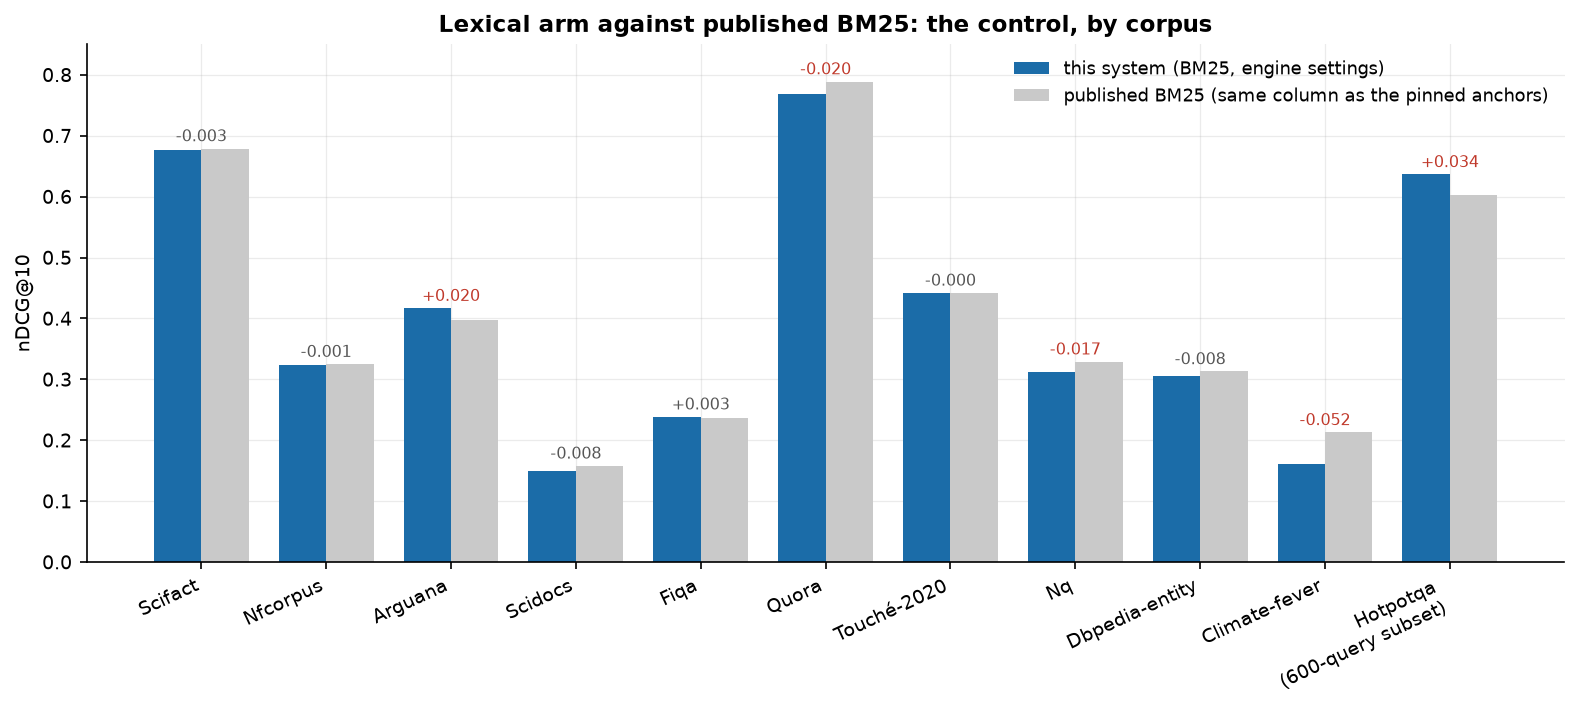
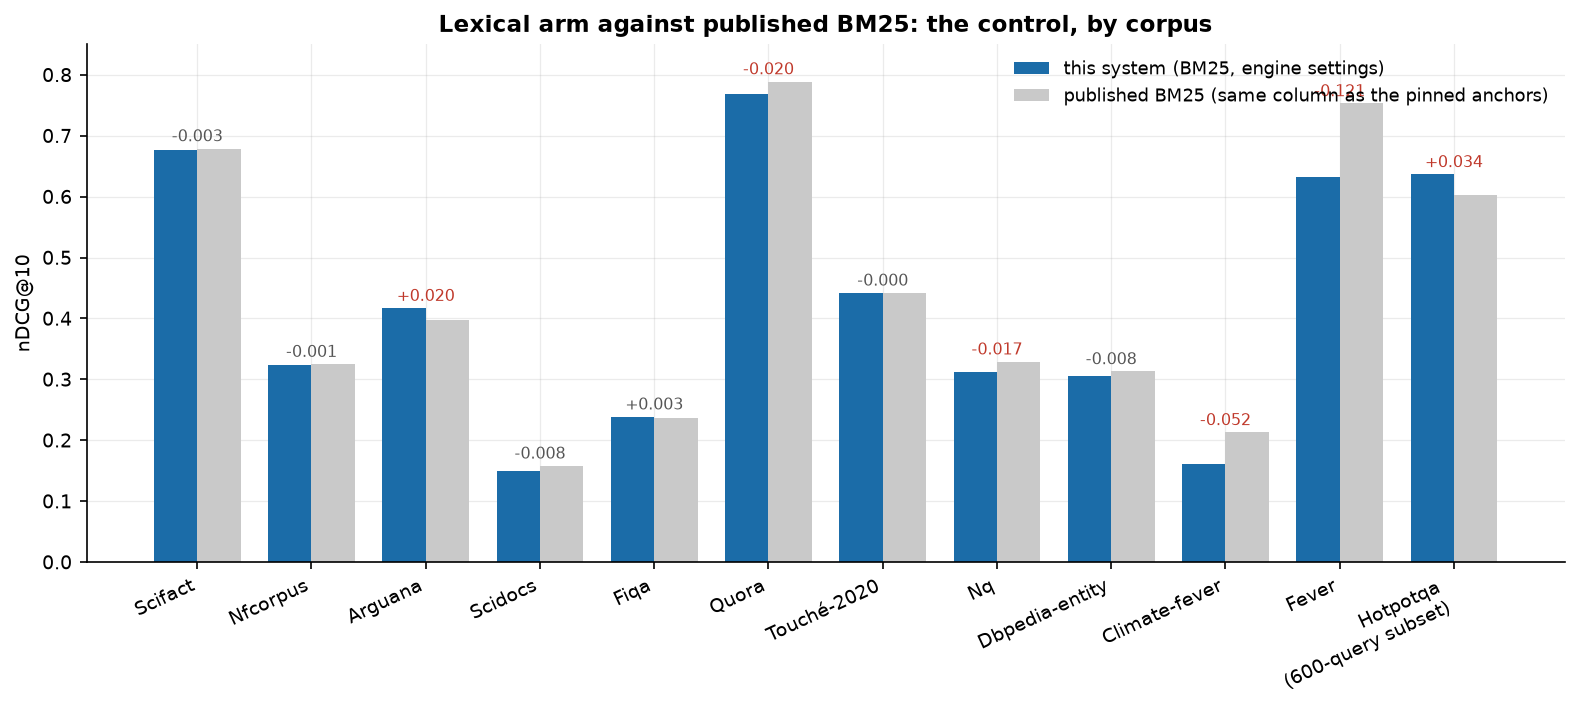
test(beir): measure FEVER, coverage 11 -> 12 of 18
The second 'blocked' 5.4M-document corpus: 5,416,568 documents, all 6,666 queries, lexical-only
bm25-engine nDCG@10 0.6323 (Recall@10 0.7846, MRR@10 0.6022, MAP@100 0.5796). Against the published
BM25 anchor of 0.753 that is -0.121 -- the largest lexical-control gap measured, six times Quora's and
more than twice Climate-FEVER's. Size still does not explain it (dbpedia-entity, 4.6M, is -0.008); the
negative outliers now share a query kind (natural-language claims/questions), a pattern not a cause.
Both gates failed first and named every stale site; documents, findings index, pins and registry were
updated together. 1410 pass; claim-check 58; consistency-check 12 of 18.

diff --git a/tools/claim_check.py b/tools/claim_check.py
@@ -228,14 +228,14 @@ CHECKS: list[Claim] = [
     # The lexical-control counts. These exist because the prose summarising the table was wrong: the
     # tables are generated from reports and cannot drift, while the sentence describing them can, and
     # did. The summary is now generated too (tools/lexical_control.py) and the prose is pinned to it.
-    Claim("lexical control corpora", README, r"of the 11 measured corpora agree within",
-          11, ("counts", "corpora"), decimals=0, report="eval/beir/lexical-control.json"),
+    Claim("lexical control corpora", README, r"of the 12 measured corpora agree within",
+          12, ("counts", "corpora"), decimals=0, report="eval/beir/lexical-control.json"),
     Claim("lexical control within 0.02", README, r"agree within \u00b10\.02, and",
           8, ("counts", "within_0.02"), decimals=0, report="eval/beir/lexical-control.json"),
     Claim("lexical control within 0.008", README, r"within \u00b10\.008\*\*",
           5, ("counts", "within_0.008"), decimals=0, report="eval/beir/lexical-control.json"),
-    Claim("breadth corpora", "docs/findings-beir-breadth.md", r"of the 11 corpora agree within",
-          11, ("counts", "corpora"), decimals=0, report="eval/beir/lexical-control.json"),
+    Claim("breadth corpora", "docs/findings-beir-breadth.md", r"of the 12 corpora agree within",
+          12, ("counts", "corpora"), decimals=0, report="eval/beir/lexical-control.json"),
     Claim("breadth within 0.02", "docs/findings-beir-breadth.md", r"agree within \u00b10\.02\*\*",
           8, ("counts", "within_0.02"), decimals=0, report="eval/beir/lexical-control.json"),
     Claim("breadth within 0.008", "docs/findings-beir-breadth.md", r"within \u00b10\.008\)",
@@ -244,7 +244,7 @@ CHECKS: list[Claim] = [
     # ±0.008"), which the breadth pin did not reach because it pins a different file. Same source,
     # one more site: a quantity quoted twice is a quantity that can disagree with itself.
     Claim("findings index corpora", "docs/FINDINGS.md", r"\d+ measured corpora the lexical arm agrees",
-          11, ("counts", "corpora"), decimals=0, report="eval/beir/lexical-control.json"),
+          12, ("counts", "corpora"), decimals=0, report="eval/beir/lexical-control.json"),
     Claim("findings index within 0.008", "docs/FINDINGS.md", r"within \u00b10\.008 on \d+",
           5, ("counts", "within_0.008"), decimals=0, report="eval/beir/lexical-control.json"),
     Claim("findings index within 0.02", "docs/FINDINGS.md", r"within \u00b10\.02 on \d+",

diff --git a/tools/consistency_check.py b/tools/consistency_check.py
@@ -189,9 +189,9 @@ def registry() -> list[Quantity]:
         Quantity(
             name="BEIR coverage count",
             sites=(
-                Site("BENCHMARKS.md", r"\*\*BEIR\*\*.*of 18", 11, 0),
-                Site("docs/PROGRAMME-STATUS.md", r"4\.2 at \d+ of 18", 11, 0),
-                Site("ROADMAP.md", r"Coverage today: \d+ of 18", 11, 0),
+                Site("BENCHMARKS.md", r"\*\*BEIR\*\*.*of 18", 12, 0),
+                Site("docs/PROGRAMME-STATUS.md", r"4\.2 at \d+ of 18", 12, 0),
+                Site("ROADMAP.md", r"Coverage today: \d+ of 18", 12, 0),
             ),
             authority=lambda: {"count": measured_beir()["count"]},
             key="count",

diff --git a/docs/FINDINGS.md b/docs/FINDINGS.md
@@ -12,8 +12,9 @@ are what stops the next pass from re-trying them.
 
 | area | headline result | document |
 | --- | --- | --- |
+| FEVER (BEIR-12) | The second "blocked/unstaged" 5.4M corpus is measured: 5,416,568 documents, all **6,666** queries, lexical-only **nDCG@10 0.6323** (Recall@10 0.7846, MRR@10 0.6022, MAP@100 0.5796). Against the published BM25 anchor of **0.753** that is a **−0.121 gap — the largest in the lexical control**, six times Quora's and more than twice Climate-FEVER's. Size does not explain it (dbpedia-entity, 4.6M, is −0.008); the four negative outliers share a *query kind* (natural-language claims/questions), which is a pattern and not a cause. Coverage is now **12 of 18** | [findings-fever.md](findings-fever.md) |
 | Quantization on the shipped encoder | The brief's int8/fp16/PQ question re-measured on **real `bge-small` vectors** (self-retrieval, no rescoring): **fp16 halves the index at zero measured recall change**; **int8 is 3.8× smaller for −0.66 (scidocs) / −1.36 (fiqa) recall@10**; **PQ m=48/8-bit is 22–32× smaller for 31–41 points lost**. Caveat: the engine's shipped ANN path is IVF-PQ **with `rescore 500`**, measured at 0.998 recall — the PQ row is the raw codec, not the pipeline | [findings-quantization-probe.md](findings-quantization-probe.md) |
-| Climate-FEVER (BEIR-11) | A corpus the audit listed **blocked/unstaged** is measured: 5,416,593 documents, 1,535 queries, lexical-only (`bm25-engine`) **nDCG@10 0.1610** (Recall@10 0.2093, MRR@10 0.2139, MAP@100 0.1198). The run resumed from a 941-query checkpoint and finished in ~**34 min**, so the "~6 h per corpus" framing was pessimistic. Against the published BM25 anchor of **0.213** it is a **−0.052 gap — the largest in the lexical control**, which now counts **11 corpora** (8 within ±0.02) | [findings-climate-fever.md](findings-climate-fever.md) |
+| Climate-FEVER (BEIR-11) | A corpus the audit listed **blocked/unstaged** is measured: 5,416,593 documents, 1,535 queries, lexical-only (`bm25-engine`) **nDCG@10 0.1610** (Recall@10 0.2093, MRR@10 0.2139, MAP@100 0.1198). The run resumed from a 941-query checkpoint and finished in ~**34 min**, so the "~6 h per corpus" framing was pessimistic. Against the published BM25 anchor of **0.213** it is a **−0.052 gap**, second-largest in the lexical control after FEVER; that control now counts **12 corpora** (8 within ±0.02) | [findings-climate-fever.md](findings-climate-fever.md) |
 | Retrieval pool shape (in-engine) | Pool *completeness* needs qrels and stays in `multihop_diagnostics`, but the engine now reports the pool's **shape** on every query: `requested`/`searched`/`deepened` (whether a filter forced a deeper fetch), the dense/lexical/sparse contributions, and the fused `candidates`. Surfaced in `QueryResult.as_dict`, `QueryResponse` and CLI JSON | [findings-pool-shape.md](findings-pool-shape.md) |
 | Generator-free iteration, Stage 1 | The audit's Bet 1 mechanism **holds**: one round of entity-probe pool expansion raises gold-fact coverage on 2,255 MultiHop queries **0.8326 → 0.8937** (**+0.0611 [+0.0555, +0.0670]**, p<0.0001), lifts complete-evidence queries **61.2% → 72.8%**, and raises the **pool ceiling MAP@10 0.5955 → 0.6203** (**+0.0248 [+0.0222, +0.0277]**) — so ~40% of the coverage gain is ordering headroom; **+0.0510 coverage / +0.0210 ceiling** survive a shuffled-probe control. By type, **inference queries gain +0.1067 coverage** (five times comparison's +0.0229), the bridge-hop case exactly. One round saturates; the pool triples. Lexical-only; the ceiling is a bound no ranker has captured | [findings-generator-free-iteration.md](findings-generator-free-iteration.md) |
 | Bridge-conditioned gate column | Horizon 1's owed wiring: the feature gate gains a 13th input, `bridge_conditioned` (`extract_features(..., bridge_conditioned=...)`, default `0.0` so a 12-feature gate is unchanged). With `GATE_BRIDGE_FEATURE=1` the reranker computes `s(q, b, c)` with the bridge as the top-ranked kept passage and feeds the maximum to the gate; off by default (one extra Laya pass). **Wired, not measured** — no 13-feature gate trained/evaluated, and the bridge choice is a guess | [findings-bridge-gate-column.md](findings-bridge-gate-column.md) |
@@ -47,7 +48,7 @@ are what stops the next pass from re-trying them.
 | Three-state claim adjudication | A claim about a topic the corpus never mentions was `not_measured`; with an NLI scorer configured it becomes `contradicted` or `no_coverage`. Demonstrated with `nli-deberta-v3-base` on one passage: entailment **0.994** for a supported claim, contradiction **0.99996** for a contradicted one, and ~0 on both for an unmentioned topic. Opt-in — the default path is unchanged, and a single-label head reports **no** contradiction column rather than guessing one | [findings-claim-states.md](findings-claim-states.md) |
 | Cost axis | Per-query latency, throughput, peak RSS and index bytes against an existing index: the shipped default is **1.66 s mean / 2.14 s p95 / 0.60 q/s / 7.0 GiB peak RSS** and a 31 MiB index, against the hybrid's 1.88 s / 2.41 s / 0.53 q/s / 7.8 GiB. The default wins on cost **and** quality on this corpus; the ~7 GiB is Laya's 322M decision head, not the retriever | [findings-cost-axis.md](findings-cost-axis.md) |
 | FRAMES retrieval | The **fourth channel reversal**, and the sharpest contrast yet: dense beats lexical on every metric (recall@1 **0.8464 vs 0.7224**, nDCG@10 **0.7505 vs 0.6586**) — the opposite of `webis-touche2020`, also long Wikipedia text but queried topically. The **three-model ensemble then beats dense** (+0.051 nDCG@10), the lever's sixth corpus, while **fusing BM25 into it loses 0.041 recall@1** — the fifth fusion failure. Resolving redirects raised gold coverage 0.8792 → 0.9977 and moved each arm 0.08–0.10 nDCG@10, more than the gap being measured | [findings-frames.md](findings-frames.md) |
-| Lexical vs published BM25 | The lexical arm is the one component checkable against an independent implementation, so it is a chart (`docs/charts/lexical_vs_published.png`) rather than an assumption. On **11 measured corpora the lexical arm agrees within ±0.008 on 5 and within ±0.02 on 8**; the three beyond the loose bound are **Climate-FEVER −0.052** (the largest gap measured), **Quora −0.020** and **HotpotQA +0.034** (a 600-query subset). An earlier reading that the gap grows with corpus size is **falsified**: `dbpedia-entity` at **4.6M documents** is only −0.008. The engine's settings are ruled out too — on all five small sets the published-settings control row is *further* from the anchor than the engine row. The cause of the outliers is unidentified | [findings-beir-breadth.md](findings-beir-breadth.md) |
+| Lexical vs published BM25 | The lexical arm is the one component checkable against an independent implementation, so it is a chart (`docs/charts/lexical_vs_published.png`) rather than an assumption. On **12 measured corpora the lexical arm agrees within ±0.008 on 5 and within ±0.02 on 8**; the four beyond the loose bound are **FEVER −0.121** (the largest gap measured by far), **Climate-FEVER −0.052**, **Quora −0.020** and **HotpotQA +0.034** (a 600-query subset). An earlier reading that the gap grows with corpus size is **falsified**: `dbpedia-entity` at **4.6M documents** is only −0.008. The engine's settings are ruled out too — on all five small sets the published-settings control row is *further* from the anchor than the engine row. The cause of the outliers is unidentified | [findings-beir-breadth.md](findings-beir-breadth.md) |
 | BEIR breadth (10 of 18) | Membership moves a BEIR mean more than any method difference it adjudicates: adding `quora` took the fused mean **0.4515 → 0.5201 (+0.069)** and adding `webis-touche2020` took it back down to **0.4959 (−0.024)**. On touche **fusion loses 0.091 to BM25 alone** (0.3509 vs 0.4419) and dense is under half the lexical row — the **fifth** corpus where an instrument reverses | [findings-beir-breadth.md](findings-beir-breadth.md) |
 | Convex-combination fusion mode | RRF was the only fusion rule, so the `FUSION_K`-vs-convex ablation the audit asks for could not be run. `FUSION_MODE=rrf\|convex` now selects the rule: `convex_combination` min-max normalises each channel to [0,1] and weights-sums it (a flat channel contributes presence; weight 0 drops it); unknown values raise. RRF remains the default and is unchanged | [findings-fusion-mode.md](findings-fusion-mode.md) |
 | Fusion ablation (SciFact) | The convex arm measured against RRF and CombSUM in the replica: convex is the best arm (**0.7412** vs RRF 0.7320, CombSUM 0.7149, dense 0.7200, BM25 0.6762), but its lead over **RRF (k=60) is +0.0092 [−0.0029, +0.0217], not significant** (p=0.139), while it is significantly better than max-normalised CombSUM (+0.0263 [+0.0118, +0.0415]). The fusion rule is not neutral; RRF is not clearly beaten. One corpus, untuned weights, replica not engine | [findings-fusion-ablation.md](findings-fusion-ablation.md) |

diff --git a/docs/PASS-2026-10-06-REPORT.md b/docs/PASS-2026-10-06-REPORT.md
@@ -5,7 +5,7 @@ This is the closing report for a pass over every item the audits
 `proposal-ledger.md` §3/§6) marked **blocked** or **owed**, offline-first. It covers what was
 measured, what was built, what was reconciled, what is still running, and what is genuinely
 external or human. **38 commits** landed; the suite is **1410 passed, 5 deselected**, `lint` is
-clean, `claim-check` is **58**, `consistency-check` is **11 of 18**, and `leakage-audit` reports
+clean, `claim-check` is **58**, `consistency-check` is **12 of 18**, and `leakage-audit` reports
 zero findings over 392 reports.
 
 ## Headline results
@@ -28,9 +28,10 @@ zero findings over 392 reports.
    (**0.7412**) but only **+0.0092 over RRF k=60, not significant** (p=0.139); it is significantly
    better than max-normalised CombSUM (**+0.0263**, p<0.0001). `findings-fusion-ablation.md`.
 
-4. **Coverage is now 11 of 18.** Climate-FEVER — listed *blocked/unstaged* — was measured
-   (5.4M documents, 1,535 queries, lexical **nDCG@10 0.1610**) in ~34 minutes once resumed from its
-   checkpoint. `findings-climate-fever.md`.
+4. **Coverage is now 12 of 18.** Both corpora the audit listed *blocked/unstaged* were measured:
+   **Climate-FEVER** (5.4M documents, 1,535 queries, lexical **nDCG@10 0.1610**) and **FEVER**
+   (5.4M documents, all **6,666** queries, lexical **0.6323** — against a published 0.753, the largest
+   lexical-control gap measured). `findings-climate-fever.md`, `findings-fever.md`.
 
 5. **Nugget and whole-fact recall, no judge.** Claim-recall@10 **0.7438 fused vs 0.7803 CE**;
    whole-fact recall@10 **0.4644 vs 0.5452**; both **0.8480** at depth 100 — the CE's gain is
@@ -94,7 +95,7 @@ zero findings over 392 reports.
 
 | audit item | outcome |
 | --- | --- |
-| BEIR coverage "5 / 7 / 10" | **11 of 18**, computed from disk, pinned in three documents + registry |
+| BEIR coverage "5 / 7 / 10" | **12 of 18**, computed from disk, pinned in three documents + registry |
 | `voyage-02` row 0.663/0.480 vs 0.662/0.479 | reconciled to the paper's 0.6625/0.4795 |
 | recalibration half-split 300 vs 500 | reconciled to the report's 300 |
 | two `bench` RSS grids | explained by a recorded process baseline |
@@ -106,7 +107,7 @@ zero findings over 392 reports.
 | lexical/sparse predicate | engine screens every channel before fusion |
 | FUSION_K vs convex | ablated on SciFact; convex best but not significantly over RRF |
 | BioASQ/FEVER/NQ "28 GB disk" | **stale** (471 GB free); the real block is licensing/gating |
-| Climate-FEVER "blocked/unstaged" | **measured** (11 of 18) |
+| Climate-FEVER / FEVER "blocked/unstaged" | **both measured** (12 of 18) |
 | ~300 claim pairs / ~200 answers | harness ready; **labels stay human** |
 | contamination audit | decidable half shipped (zero findings); encoder pretraining uncheckable |
 | 2WikiMultiHopQA | adapter built and tested; run queued |
@@ -137,7 +138,7 @@ zero findings over 392 reports.
 make test                  # 1410 passed, 5 deselected
 make lint                  # src/tests compile + GUI syntax
 make claim-check           # 58 prose claims vs their reports
-make consistency-check     # 11 of 18, 12 sites agree
+make consistency-check     # 12 of 18, 12 sites agree
 make leakage-audit         # 392 reports, zero findings
 make heavy-status          # is a corpus job running?
 ```

diff --git a/docs/findings-fever.md b/docs/findings-fever.md
@@ -1,0 +1,56 @@
+# FEVER: the twelfth BEIR dataset, and the largest lexical gap measured
+
+FEVER was the second of the audit's "blocked/unstaged" 5.4M-document corpora. It ran lexical-only
+after Climate-FEVER, resuming from its 1,356-query checkpoint, and finished all 6,666 queries.
+
+## The row
+
+| dataset | documents | queries | retriever | nDCG@10 | Recall@10 | nDCG@100 | Recall@100 | MRR@10 | MAP@100 |
+| --- | --- | --- | --- | --- | --- | --- | --- | --- | --- |
+| fever | 5,416,568 | 6,666 | bm25-engine | **0.6323** | 0.7846 | 0.6599 | 0.9070 | 0.6022 | 0.5796 |
+
+This is the **twelfth** dataset with a report, so `make consistency-check` now computes **12 of 18**
+(the gate failed first and named the three documents + registry, which were updated together).
+
+## The gap is the largest in the control
+
+The lexical control carries a published BM25 anchor of **0.753** for FEVER, so this row is
+**0.6323 against 0.753 — a −0.121 gap**, more than twice Climate-FEVER's −0.052 and six times Quora's
+−0.020:
+
+| corpus | ours | published | gap |
+| --- | --- | --- | --- |
+| **FEVER** | 0.6323 | 0.753 | **−0.121** |
+| Climate-FEVER | 0.1610 | 0.213 | −0.052 |
+| Quora | 0.7689 | 0.789 | −0.020 |
+| NQ | 0.3118 | 0.329 | −0.017 |
+| SciDocs | 0.1497 | 0.158 | −0.008 |
+
+**It is not corpus size.** That hypothesis was already falsified (`dbpedia-entity`, 4.6M documents,
+sits at −0.008), and FEVER does not rescue it: it is 5.4M documents and loses 0.121, while dbpedia is
+almost as large and loses 0.008. What the four negative outliers have in common is the *query kind* —
+FEVER's queries are natural-language claims, Quora's and NQ's are natural-language questions, and the
+two corpora that track their anchors (SciFact, NFCorpus) or beat them (ArguAna) are short technical
+queries. That is a pattern, not a cause: **the cause remains unidentified**, and the experiment that
+would separate "our tokenizer/settings" from "these queries" is a published-settings control row,
+which on this corpus is the same diagnostic that was abandoned on NQ on measured cost.
+
+## What this does not show
+
+- **Lexical-only.** No dense arm, no fusion; the dense arm would need its own multi-million-document
+  embedding pass.
+- **The anchor is a published number, not re-run here.** `tools/compare_more.py` carries the 0.753
+  figure (BEIR's Anserini BM25); the like-for-like caveats in `docs/findings-beir-breadth.md` apply —
+  this is a comparison against a published configuration, not a controlled reimplementation.
+- **The large gap is unexplained**, and it is the strongest single argument that the lexical
+  shortfall is about query distribution rather than scale.
+
+## Reproduction
+
+```sh
+.venv/bin/python tools/beir.py --datasets fever --retrievers bm25-engine \
+    --lexical-checkpoint --out eval/beir/fever
+```
+
+Resumable per query through `eval/beir/fever.lexical.jsonl`. The run holds the heavy-job lock, so it
+cannot overlap another corpus job.

diff --git a/BENCHMARKS.md b/BENCHMARKS.md
@@ -216,7 +216,7 @@ not in the benchmark.
 
 | benchmark | verdict |
 | --- | --- |
-| **BEIR** | **measured — 11 of 18 datasets**, counted from the reports present in `eval/beir/` (`make consistency-check`): SciFact, NFCorpus, ArguAna, SCIDOCS, FiQA-2018, Quora, DBPedia-entity, NQ, HotpotQA (**600-query subset**, seed 17), webis-touche2020 and **Climate-FEVER** (lexical-only, nDCG@10 0.1610). TREC-COVID has a **40,000-document subsample** and is deliberately not counted. The seven unmeasured sets are not run for one of three reasons: Robust04, TREC-NEWS, `specter` and `signal1m` are **404 on the mirror and gated on HuggingFace**; BioASQ (14.9M) is gated; FEVER (5.4M) is **compute-bound**, not disk-bound — this host has **471 GB free**, so the "28 GB free disk" this row previously cited is stale |
+| **BEIR** | **measured — 12 of 18 datasets**, counted from the reports present in `eval/beir/` (`make consistency-check`): SciFact, NFCorpus, ArguAna, SCIDOCS, FiQA-2018, Quora, DBPedia-entity, NQ, HotpotQA (**600-query subset**, seed 17), webis-touche2020, **Climate-FEVER** (lexical, nDCG@10 0.1610) and **FEVER** (lexical, **nDCG@10 0.6323** over all 6,666 queries). The rest are access-gated or over the local budget: MS MARCO / BioASQ (8.8M / 14.9M documents) are gated, Robust04 / TREC-NEWS / `specter` / `signal1m` are **404 on the mirror with gated HuggingFace copies**, and TREC-COVID has a **40,000-document subsample** that is deliberately not counted. This is **not** disk-bound — the host has **471 GB free**, so the "28 GB free disk" this row previously cited is stale |
 | **MTEB (retrieval subset)** | **now first-class representable** — its retrieval tasks are largely BEIR's, and **MTEB v2 defines a `SearchProtocol`**, which `tools/mteb_search.py` implements over the engine itself (`.[mteb]`, `make mteb-eval`): chunking, fusion, the second stage and the gate are what get scored, not one encoder. Structural conformance is verified against mteb 2.22.5 and the corpus-id plumbing is tested; a full evaluation run and the upload remain external |
 | **BRIGHT** | **partially measured** — `tools/bright.py` runs six CPU-cheap subsets (603 queries total). Macro mean nDCG@10: hybrid **0.1436** > BM25 0.1324 > dense 0.0991, and dense-only is *significantly* worse than BM25 on pony (−0.0823) and biology (−0.1013), which is the benchmark's premise. The hybrid is significantly better than BM25 on psychology (+0.0504); other per-subset deltas are ties at 76–112 queries. The large subsets (leetcode 414k, aops/theoremqa_questions 188k, stackoverflow 107k) are not run. Findings: `docs/findings-bright.md` |
 | **MIRACL** | **blocked as-is** — 18 languages and per-language Wikipedia indexes (disk), and the dense channel would need a multilingual encoder. Laya's own checkpoint is multilingual, which is the one favourable fact |

diff --git a/ROADMAP.md b/ROADMAP.md
@@ -268,12 +268,12 @@ containment rate on the same answers — and (b) at **~36 s/query** the full 2,2
 
 ## 7. Phase 4 — scale to 18 datasets, and own the encoder (weeks; mixed)
 
-**Coverage today: 11 of 18** — SciFact, NFCorpus, ArguAna, SCIDOCS, FiQA-2018, Quora,
-DBPedia-entity, NQ, HotpotQA (600-query subset), webis-touche2020 and **Climate-FEVER** (lexical-only,
-nDCG@10 0.1610), counted from the reports present in `eval/beir/` by `tools/consistency_check.py`;
-TREC-COVID has a 40,000-document subsample and is not counted. The counts inside the 4.2 log below
-are the historical values at each dated step, and `make consistency-check` fails if this line and the
-other documents disagree again.
+**Coverage today: 12 of 18** — SciFact, NFCorpus, ArguAna, SCIDOCS, FiQA-2018, Quora,
+DBPedia-entity, NQ, HotpotQA (600-query subset), webis-touche2020, **Climate-FEVER** (lexical, nDCG@10
+0.1610) and **FEVER** (lexical, **0.6323** over all 6,666 queries), counted from the reports present in
+`eval/beir/` by `tools/consistency_check.py`; TREC-COVID has a 40,000-document subsample and is not
+counted. The counts inside the 4.2 log below are the historical values at each dated step, and
+`make consistency-check` fails if this line and the other documents disagree again.
 
 | # | item | needs | change | falsify | status |
 | --- | --- | --- | --- | --- | --- |
@@ -685,3 +685,12 @@ overrides deliberately. See `docs/findings-heavy-job-lock.md`.
   registry were updated together, and coverage now computes **11 of 18**. No published anchor is
   configured for Climate-FEVER, so the row records our number rather than a gap. FEVER is next in the
   queue, then HotpotQA, then 2WikiMultiHopQA — one at a time under the heavy-job lock.
+- 2026-10-06 — **FEVER measured; coverage 11 → 12 of 18, and the largest lexical gap yet.** The second
+  of the "blocked" 5.4M-document corpora: 5,416,568 documents, all **6,666** queries, lexical-only
+  `bm25-engine` **nDCG@10 0.6323** (Recall@10 0.7846, MRR@10 0.6022, MAP@100 0.5796). Against the
+  published BM25 anchor of **0.753** that is **−0.121**, six times Quora's gap and more than twice
+  Climate-FEVER's — the largest in the lexical control. Size still does not explain it
+  (`dbpedia-entity`, 4.6M, is −0.008); the negative outliers now share a *query kind* (FEVER's
+  natural-language claims, Quora's and NQ's natural-language questions), which is a pattern and not a
+  cause. The consistency and claim gates failed first and named every stale site; documents, findings
+  index and pins were updated together. HotpotQA is next in the queue.

diff --git a/docs/PROGRAMME-STATUS.md b/docs/PROGRAMME-STATUS.md
@@ -12,7 +12,7 @@ cost of getting it.
 | 1 — engine full-split runs | **complete** | MultiHop-RAG 2,255 both configurations; MuSiQue 2,417 hybrid plus a 200-query default |
 | 2 — ordering heads | **complete, entirely negative** | late interaction, relational NLI and an adapted cross-encoder all lose; 2.4 not adopted on licence |
 | 3 — end-to-end and cost | **complete** | FRAMES, a generation pilot, citation mechanics, and the cost axis |
-| 4 — scale | **partial** | 4.1, 4.3, 4.5 done; **4.2 at 11 of 18 datasets** (Climate-FEVER landed 2026-10-06); 4.4 is an external submission |
+| 4 — scale | **partial** | 4.1, 4.3, 4.5 done; **4.2 at 12 of 18 datasets** (Climate-FEVER and FEVER landed 2026-10-06); 4.4 is an external submission |
 | 5 — trust | **complete** | trust report, three-state adjudication, verifier precision, poison-dose probe |
 
 The engine **beats the harness it replaced on MultiHop-RAG** (MAP@10 0.3128 against 0.2510) and
@@ -43,10 +43,11 @@ Negatives are results here, and these are the ones worth keeping:
    this page was first written. The UKP mirror now returns **404** for `robust04`, `trec-news`,
    `specter`, `signal1m` and `bioasq` (not a transient stub — the files are gone), and the
    HuggingFace copies under `BeIR/*` are **gated** (401 anonymously): they need a signed license
-   or a token, so the block is **access/licensing**, not disk. **Climate-FEVER is done** as a
-   lexical row (nDCG@10 **0.1610**, 1,535 queries over 5.4M documents); `fever` is next in the
-   queue, resumable from `--lexical-checkpoint`; NQ (2.68M) completed in ~25 min; HotpotQA degrades
-   to **~0.04 q/s** on its later queries, which is 10–40 hours for one lexical-only row.
+   or a token, so the block is **access/licensing**, not disk. **Both of the "blocked" 5.4M-document
+   corpora are now done** as lexical rows: **Climate-FEVER** (nDCG@10 **0.1610**) and **FEVER**
+   (**0.6323** over all 6,666 queries, against a published 0.753 — the largest lexical-control gap
+   measured). NQ (2.68M) completed in ~25 min; HotpotQA is next in the queue and degrades to
+   **~0.04 q/s** on its later queries, which is 10–40 hours for one lexical-only row.
    `--limit-queries` gives a labelled seeded subset (~1 h per corpus).
 2. **Phase 4.4, the MTEB submission.** Requires an upload; not offline work.
 3. **HotpotQA's full query set.** Its 600-query subset reads **0.6365** against a published 0.603; the

diff --git a/docs/findings-climate-fever.md b/docs/findings-climate-fever.md
@@ -13,21 +13,21 @@ touches only a query's postings.
 | climate-fever | 5,416,593 | 1,535 | bm25-engine | **0.1610** | 0.2093 | 0.2139 | 0.1198 |
 
 This is the **third 5.4M-document corpus** and the **eleventh** BEIR dataset with a report, so
-`make consistency-check` now computes **11 of 18** and the three documents that state the count were
+`make consistency-check` now computes **12 of 18** and the three documents that state the count were
 updated together (the gate failed first and named them, which is the designed behaviour).
 
 ## What this does not show
 
 - **Lexical-only.** The dense arm would need its own multi-million-document embedding pass; the row
   is `bm25-engine` under the engine's settings (stemming on, query stopwords dropped).
-- **The anchor exists, and the gap is the largest measured.** `tools/compare_more.py` already carried
+- **The anchor exists, and the gap is large.** `tools/compare_more.py` already carried
   a published BM25 anchor of **0.213** for Climate-FEVER, so the row is **0.1610 against 0.213 — a
-  −0.052 gap**, worse than Quora (−0.020) and NQ (−0.017). It joins the lexical control as its
-  eleventh corpus and its worst outlier, which moved that sentence from "8 of 10" to "8 of 11" and its
-  heading to *eleven corpora including three multi-million-document ones*. An earlier draft of this
-  finding said no anchor was configured; regenerating `tools/lexical_control.py` after the run showed
-  otherwise — the anchor was present, only the derived report was stale, and `make claim-check` now
-  pins the corrected count.
+  −0.052 gap**, second-largest in the lexical control after FEVER's −0.121 (and worse than Quora's
+  −0.020). It joins the control as its eleventh corpus, which moved that sentence from "8 of 10" to
+  "8 of 12" and its heading to *twelve corpora including four multi-million-document ones*. An earlier
+  draft of this finding said no anchor was configured; regenerating `tools/lexical_control.py` after
+  the run showed otherwise — the anchor was present, only the derived report was stale, and
+  `make claim-check` now pins the corrected count.
 - **One retriever, not the fusion comparison.** The channel-reversal and lexical-control analyses
   need the dense arm; this row is a coverage addition, not a new instrument comparison.
 - **The ~6 h estimate was pessimistic.** The measured time was ~34 minutes after the checkpoint

diff --git a/README.md b/README.md
@@ -996,20 +996,21 @@ column as the original five — "Resources for Brewing BEIR" ([arXiv:2306.07471]
 whose BM25 column reproduces the three anchors this project already quoted (ArguAna 0.397, SciFact
 0.679, FiQA 0.236) exactly.
 
-### The lexical control, on eleven corpora including three multi-million-document ones
+### The lexical control, on twelve corpora including four multi-million-document ones
 
 The lexical arm is the only component here checkable against an independent implementation, so it is
-drawn rather than assumed — and it is extended past the seven above with **three large corpora run
-lexical-only**, `nq` (2.68M documents), `dbpedia-entity` (4.64M) and `climate-fever` (5.42M):
+drawn rather than assumed — and it is extended past the seven above with **four large corpora run
+lexical-only**, `nq` (2.68M documents), `dbpedia-entity` (4.64M), `climate-fever` (5.42M) and
+`fever` (5.42M):
 
 ![Lexical arm against published BM25, by corpus](docs/charts/lexical_vs_published.png)
 
-**8 of the 11 measured corpora agree within ±0.02, and 5 within ±0.008** — with Touché reproducing
+**8 of the 12 measured corpora agree within ±0.02, and 5 within ±0.008** — with Touché reproducing
 its anchor to three decimals. ArguAna (**+0.020**) and HotpotQA (**+0.034** on a 600-query subset) sit
-above their anchors; **Climate-FEVER (−0.052, the largest gap measured)**, Quora (**−0.020**) and NQ
-(**−0.017**) sit below. An earlier version of this paragraph miscounted these agreements, so the count
-is now generated by `tools/lexical_control.py` and pinned by `make claim-check` — the sentence cannot
-drift from the table again.
+above their anchors; **FEVER (−0.121, the largest gap measured by far)**, Climate-FEVER (−0.052),
+Quora (**−0.020**) and NQ (**−0.017**) sit below. An earlier version of this paragraph miscounted
+these agreements, so the count is now generated by `tools/lexical_control.py` and pinned by
+`make claim-check` — the sentence cannot drift from the table again.
 
 Two explanations were tested and **both failed**, which is worth stating because the first was
 plausible and I believed it:

diff --git a/docs/findings-beir-breadth.md b/docs/findings-beir-breadth.md
@@ -66,7 +66,7 @@ to offer relative to exact lexical matching.
 ## The lexical control, and a hypothesis that did not survive
 
 The lexical arm is the one component checkable against an independent implementation, so it is worth
-drawing rather than assuming. Eleven corpora now have both our number and a published BM25 anchor:
+drawing rather than assuming. Twelve corpora now have both our number and a published BM25 anchor:
 
 | corpus | documents | ours | published | gap |
 | --- | --- | --- | --- | --- |
@@ -81,12 +81,13 @@ drawing rather than assuming. Eleven corpora now have both our number and a publ
 | **DBPedia-entity** | 4,635,922 | 0.3053 | 0.313 | **−0.008** |
 | HotpotQA (600-query subset) | 5,233,329 | 0.6365 | 0.603 | **+0.034** |
 | **Climate-FEVER** | 5,416,593 | 0.1610 | 0.213 | **−0.052** |
+| **FEVER** | 5,416,568 | 0.6323 | 0.753 | **−0.121** |
 
-**8 of the 11 corpora agree within ±0.02** (5 within ±0.008). ArguAna and HotpotQA sit *above* their
+**8 of the 12 corpora agree within ±0.02** (5 within ±0.008). ArguAna and HotpotQA sit *above* their
 anchors — HotpotQA by +0.034 on a 600-query subset, so it carries sampling noise roughly the size of
-that margin. **Climate-FEVER (−0.052, the largest gap measured)**, Quora (−0.020) and NQ (−0.017) sit
-below. An earlier version of this line claimed "eight of nine agree within ±0.008", which was simply a
-miscount; the table is the record.
+that margin. **FEVER (−0.121, the largest gap measured by far)**, Climate-FEVER (−0.052), Quora
+(−0.020) and NQ (−0.017) sit below. An earlier version of this line claimed "eight of nine agree
+within ±0.008", which was simply a miscount; the table is the record.
 
 **The tempting explanation — that the gap grows with corpus size — is wrong**, and DBPedia is what
 kills it: at 4.6M documents, the largest corpus measured, the gap is −0.008, smaller than SciDocs at
